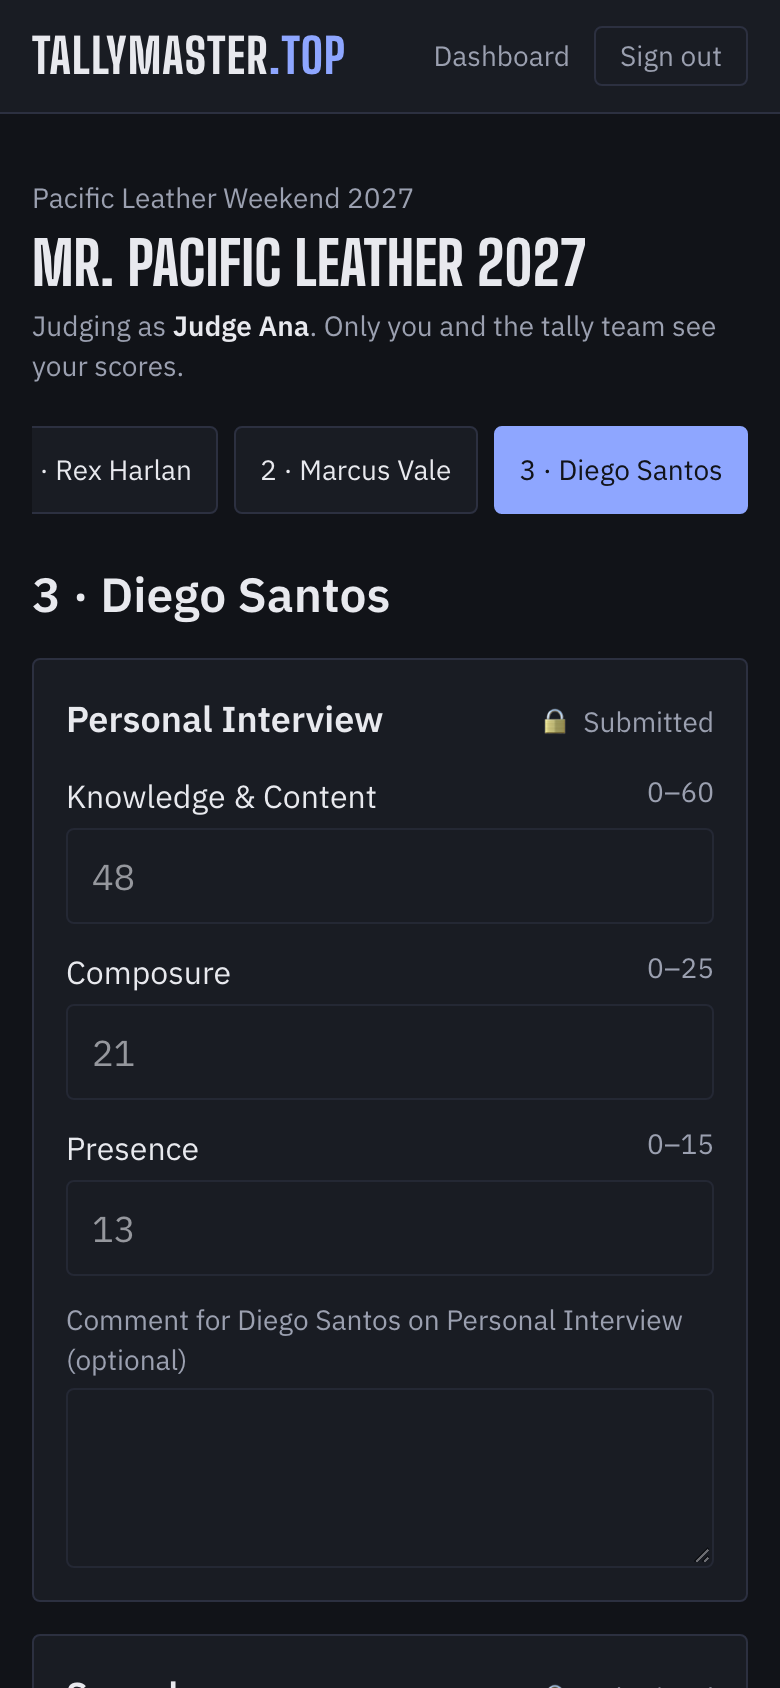
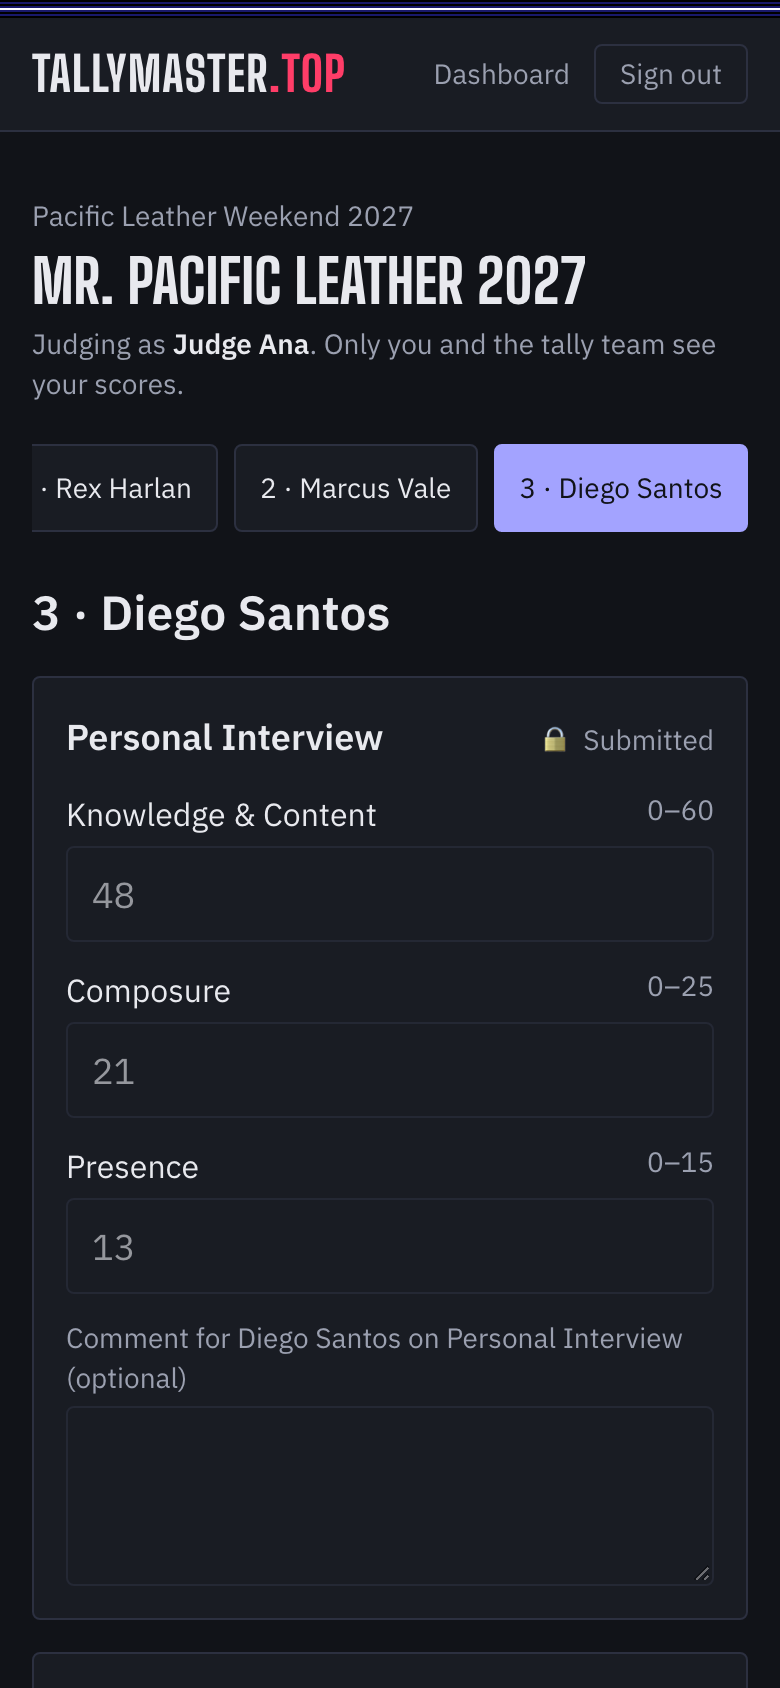
Design pass: Leather Pride flag colors
Accent is the flag's blue (#18186b; lifted for dark mode) and the heart's red
(#e70039) marks the brand, headline numbers, the winner and the favicon's
tally stroke. A band of the flag's nine stripes tops every page (taller on
public pages). Dark-mode background and text are unchanged. Landing
screenshots and the link-preview image are retaken with the new colors.

diff --git a/src/index.css b/src/index.css
@@ -1,6 +1,7 @@
 @import "tailwindcss";
 
-/* Colors are CSS variables remapped for dark mode (Inkborn convention: no `dark:` variants). */
+/* Colors are CSS variables remapped for dark mode (Inkborn convention: no `dark:` variants).
+   Palette from the Leather Pride flag: black, flag blue #18186b, white, and the heart's red #e70039. */
 @theme {
   --color-bg: var(--c-bg);
   --color-surface: var(--c-surface);
@@ -10,6 +11,7 @@
   --color-accent: var(--c-accent);
   --color-on-accent: var(--c-on-accent);
   --color-danger: var(--c-danger);
+  --color-heart: var(--c-heart);
   --font-display: "Big Shoulders Display", "Arial Narrow", sans-serif;
   --font-sans: "IBM Plex Sans", system-ui, sans-serif;
   --font-mono: "IBM Plex Mono", ui-monospace, monospace;
@@ -17,17 +19,24 @@
 
 :root {
   --c-bg: #f6f6f8; --c-surface: #ffffff; --c-fg: #16181f; --c-muted: #5d6272; --c-rule: #dcdee6;
-  --c-accent: #1f3a93; --c-on-accent: #ffffff; --c-danger: #b3202e;
+  --c-accent: #18186b; --c-on-accent: #ffffff; --c-danger: #b3202e; --c-heart: #e70039;
 }
 @media (prefers-color-scheme: dark) {
   :root {
     --c-bg: #111318; --c-surface: #191c23; --c-fg: #e8e9ee; --c-muted: #9ba0b0; --c-rule: #2c3040;
-    --c-accent: #8ea6ff; --c-on-accent: #111318; --c-danger: #ff6b78;
+    --c-accent: #a3a3ff; --c-on-accent: #111318; --c-danger: #ff6b78; --c-heart: #ff3d68; /* flag blue and red, lifted for the dark background */
     color-scheme: dark;
   }
 }
 
 body { @apply bg-bg text-fg font-sans antialiased; }
+
+/* The flag's nine stripes (black, blue, black, blue, white, blue, black, blue, black), as a thin band. Literal
+   colors on purpose: it's the flag, the same in light and dark mode. */
+.flag-stripes { /* height comes from a utility class: h-[18px] on public pages, h-[9px] in the app */
+  background: linear-gradient(#000 0 11.11%, #18186b 11.11% 22.22%, #000 22.22% 33.33%, #18186b 33.33% 44.44%, #fff 44.44% 55.55%,
+    #18186b 55.55% 66.66%, #000 66.66% 77.77%, #18186b 77.77% 88.88%, #000 88.88%);
+}
 
 /* Print: landscape, and always the light palette on white paper, whatever the screen's color scheme. */
 @page { size: landscape; margin: 12mm; }
@@ -35,7 +44,7 @@ body { @apply bg-bg text-fg font-sans antialiased; }
 @media print {
   :root {
     --c-bg: #ffffff; --c-surface: #ffffff; --c-fg: #000000; --c-muted: #555a66; --c-rule: #9a9ea8;
-    --c-accent: #1f3a93; --c-on-accent: #ffffff; --c-danger: #b3202e;
+    --c-accent: #18186b; --c-on-accent: #ffffff; --c-danger: #b3202e; --c-heart: #e70039;
     color-scheme: light;
   }
 }

diff --git a/src/pages/Pricing.tsx b/src/pages/Pricing.tsx
@@ -35,7 +35,7 @@ export function Pricing() {
       <main>
         <section className="mx-auto grid max-w-6xl items-start gap-10 px-4 py-14 md:grid-cols-[1fr_1fr] md:py-20">
           <div className="grid gap-5">
-            <p className="text-sm font-semibold uppercase tracking-wider text-accent">Pricing</p>
+            <p className="text-sm font-semibold uppercase tracking-wider text-heart">Pricing</p>
             <h1 className="font-display text-5xl leading-none font-extrabold uppercase sm:text-6xl">One flat fee per event.</h1>
             <p className="max-w-prose text-lg text-muted">
               No subscriptions and no per-contestant charges. Set everything up for free, and pay when your event is ready to score.
@@ -85,7 +85,7 @@ export function Pricing() {
           <ol className="grid gap-6 md:grid-cols-3">
             {steps.map(([title, body], i) => (
               <li key={title} className="grid content-start gap-2">
-                <span className="font-display text-5xl font-extrabold text-accent">{i + 1}</span>
+                <span className="font-display text-5xl font-extrabold text-heart">{i + 1}</span>
                 <h3 className="text-lg font-semibold">{title}</h3>
                 <p className="text-muted">{body}</p>
               </li>

diff --git a/src/pages/Landing.tsx b/src/pages/Landing.tsx
@@ -48,7 +48,7 @@ export function Landing() {
       <main>
         <section className="mx-auto grid max-w-6xl items-center gap-10 px-4 py-14 md:grid-cols-[5fr_6fr] md:py-20">
           <div className="grid gap-6">
-            <p className="text-sm font-semibold uppercase tracking-wider text-accent">Scoring for title contests</p>
+            <p className="text-sm font-semibold uppercase tracking-wider text-heart">Scoring for title contests</p>
             <h1 className="font-display text-5xl leading-none font-extrabold uppercase sm:text-6xl">
               The tally is done when the last score is in.
             </h1>
@@ -84,7 +84,7 @@ export function Landing() {
           <ol className="grid gap-6 md:grid-cols-3">
             {steps.map(([title, body], i) => (
               <li key={title} className="grid content-start gap-2">
-                <span className="font-display text-5xl font-extrabold text-accent">{i + 1}</span>
+                <span className="font-display text-5xl font-extrabold text-heart">{i + 1}</span>
                 <h3 className="text-lg font-semibold">{title}</h3>
                 <p className="text-muted">{body}</p>
               </li>

diff --git a/src/pages/Results.tsx b/src/pages/Results.tsx
@@ -49,7 +49,7 @@ export function ResultsView({ snapshot: s, publishedAt }: { snapshot: Snapshot; 
       <h1 className="font-display text-4xl font-extrabold uppercase sm:text-5xl">{s.contest}</h1>
       <p className="text-sm text-muted">Official results · published {new Date(publishedAt).toLocaleDateString(undefined, { dateStyle: 'long' })}</p>
     </div>
-    <div className={`${card} border-accent px-5 py-4 text-xl`}>
+    <div className={`${card} border-l-4 border-l-heart px-5 py-4 text-xl`}>
       {s.winner
         ? <p><span className="text-muted">Winner: </span><strong>{s.winner.name}</strong>{s.winner.reason && <span className="text-base text-muted"> · {s.winner.reason}</span>}</p>
         : <p><strong>No title awarded.</strong>{s.thresholdPct != null && <span className="text-base text-muted"> No contestant reached the {s.thresholdPct}% minimum.</span>}</p>}

diff --git a/src/pages/Announce.tsx b/src/pages/Announce.tsx
@@ -80,7 +80,7 @@ export function Announce() {
     <main className="grid min-h-dvh cursor-pointer select-none place-content-center gap-6 bg-bg p-8 text-center"
       onClick={() => setStep(s => Math.min(s + 1, cards.length - 1))}>
       <p className="text-2xl text-muted sm:text-4xl">{card.kicker}</p>
-      <h1 key={step} className={`font-display font-extrabold uppercase leading-none ${card.big ? 'text-6xl text-accent sm:text-9xl' : 'text-5xl sm:text-8xl'}`}>{card.title}</h1>
+      <h1 key={step} className={`font-display font-extrabold uppercase leading-none ${card.big ? 'text-6xl text-heart sm:text-9xl' : 'text-5xl sm:text-8xl'}`}>{card.title}</h1>
       <p className="fixed bottom-4 left-0 right-0 text-xs text-muted">{step + 1} / {cards.length}</p>
     </main>
   )

diff --git a/src/pages/Features.tsx b/src/pages/Features.tsx
@@ -75,7 +75,7 @@ export function Features() {
       <PublicHeader />
       <main>
         <section className="mx-auto grid max-w-6xl gap-5 px-4 py-14 md:py-20">
-          <p className="text-sm font-semibold uppercase tracking-wider text-accent">Features</p>
+          <p className="text-sm font-semibold uppercase tracking-wider text-heart">Features</p>
           <h1 className="max-w-3xl font-display text-5xl leading-none font-extrabold uppercase sm:text-6xl">Everything your title contest needs</h1>
           <p className="max-w-prose text-lg text-muted">
             Tallymaster.top covers the whole weekend: setting up the scoresheet, judges scoring on their phones (or paper), the tally

diff --git a/src/pages/Layout.tsx b/src/pages/Layout.tsx
@@ -24,6 +24,7 @@ export function Layout() {
   return (
     <div className="min-h-dvh">
       <header className="border-b border-rule bg-surface print:hidden">
+        <div className="flag-stripes h-[9px]" aria-hidden />
         <div className="mx-auto flex max-w-5xl flex-wrap items-center justify-between gap-x-4 gap-y-2 px-4 py-3">
           <Link to="/"><Brand className="text-2xl" /></Link>
           <div className="flex items-center gap-3 text-sm text-muted">

diff --git a/src/components/PublicHeader.tsx b/src/components/PublicHeader.tsx
@@ -7,6 +7,7 @@ export function PublicHeader() {
   const session = useSession()
   return (
     <header className="border-b border-rule bg-surface">
+      <div className="flag-stripes h-[18px]" aria-hidden />
       <div className="mx-auto flex max-w-6xl flex-wrap items-center justify-between gap-x-4 gap-y-2 px-4 py-3">
         <Link to="/"><Brand className="text-2xl" /></Link>
         <nav className="flex items-center gap-3 text-sm sm:gap-4">

diff --git a/src/components/Brand.tsx b/src/components/Brand.tsx
@@ -2,7 +2,7 @@
 export function Brand({ className = '' }: { className?: string }) {
   return (
     <span className={`font-display font-extrabold uppercase tracking-wide ${className}`}>
-      Tallymaster<span className="text-accent">.top</span>
+      Tallymaster<span className="text-heart">.top</span>
     </span>
   )
 }
